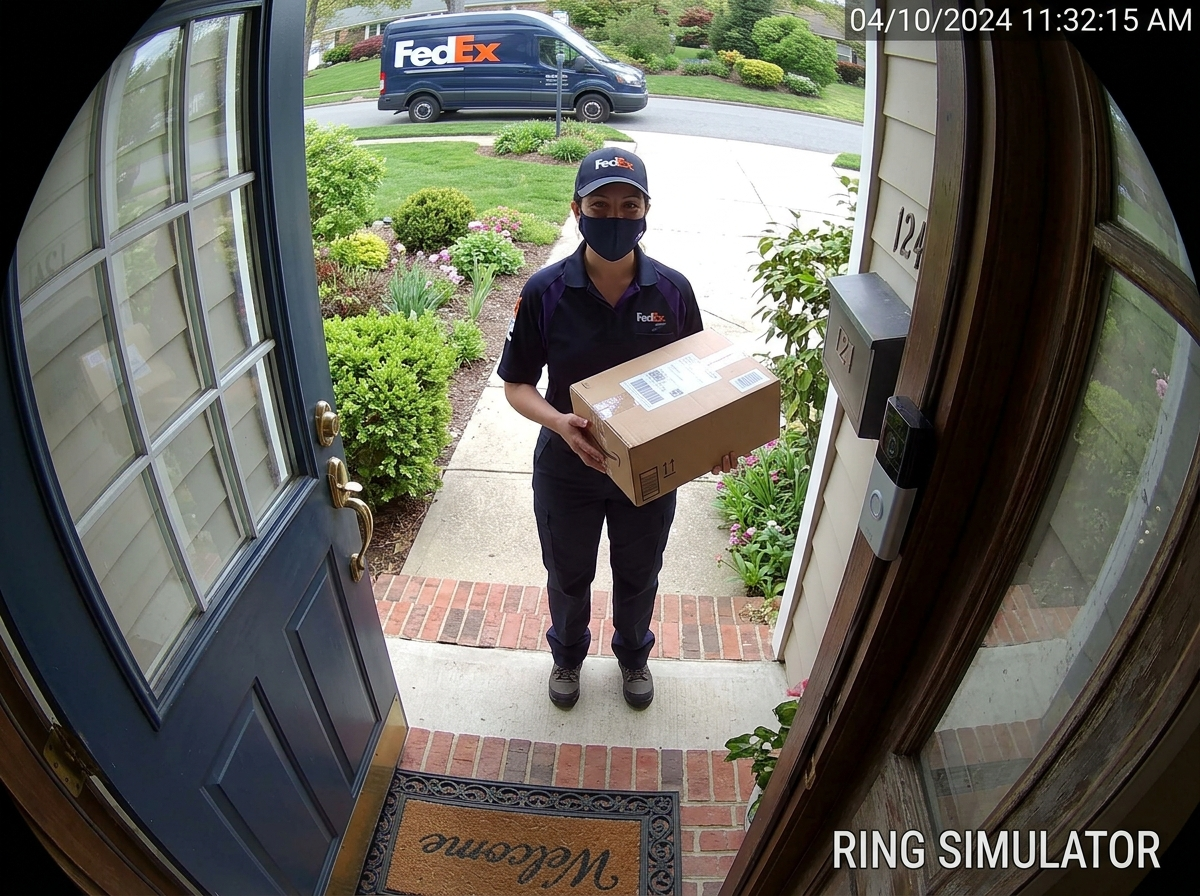
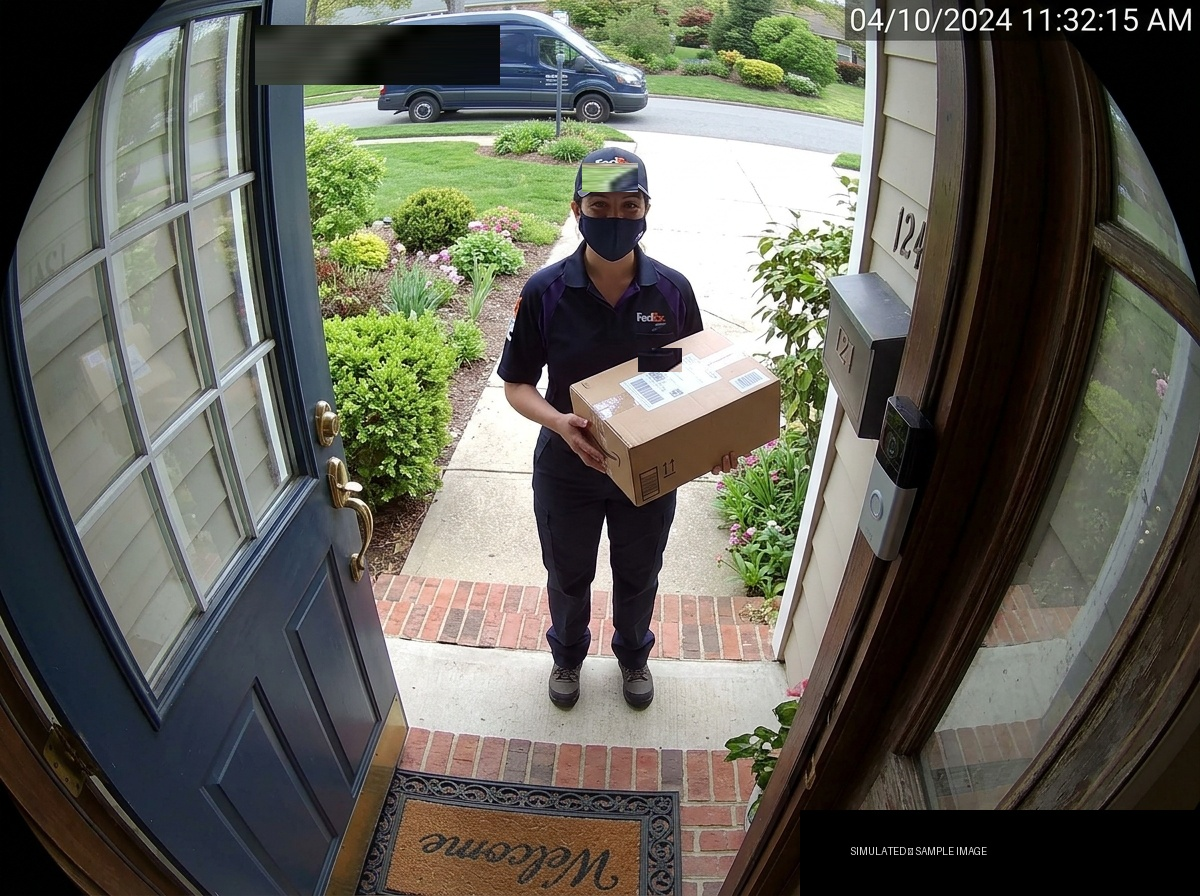
chore: replace image watermarks with generic simulated label and update progress

diff --git a/PROGRESS.md b/PROGRESS.md
@@ -57,8 +57,10 @@ Decisions:
 - Demo Milestones: Rough demo video checkpoint script produced in `DEMO_NOTES.md` (<3 minutes side-by-side); README, feedback, and friction log updated in every task
 
 Open questions & Contingencies:
-- Day 2 Fallback Trigger: Fallback to Alexa+ MCP server (Streamable HTTP) if no simulated/live Ring webhook events work by end of Day 2
-- AWS Bedrock region/model access verification
+- Day 2 Fallback Trigger: [CLOSED] Ingestion and ring-sandbox emulator compatibility succeeded; no Alexa+ fallback required.
+- AWS Bedrock access: [CLOSED] Converse API integration tested with AbortController, prompt templates, and optional live smoke runner.
+- Open Source mini challenge: confirm whether main repo counts or an additional project/PR is required.
+
 
 
 
